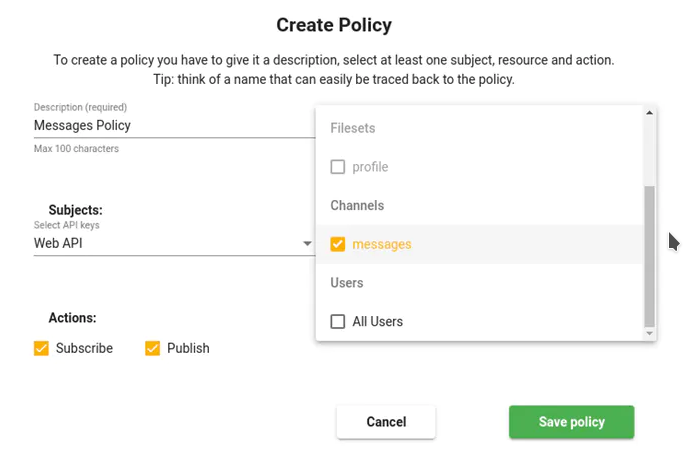
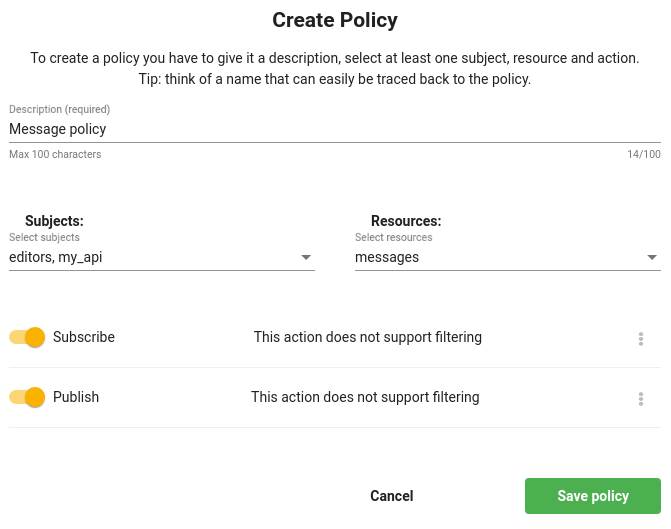
DataSet strict mode, UMS Namespaces, Policy Filters, Delete project

diff --git a/docs/auth/README.md b/docs/auth/README.md
@@ -30,9 +30,7 @@ Using the automatically generated API, we can now interact with our data.
 
 ``` js
 // Jexia client
-import { jexiaClient } from "jexia-sdk-js/node";
-// Dataset operation
-import { dataOperations } from "jexia-sdk-js/node";
+import { jexiaClient, dataOperations } from "jexia-sdk-js/node";
 
 const ds = dataOperations();
 
@@ -81,16 +79,20 @@ curl -H "Authorization: Bearer $API_TOKEN"
 </template>
 </CodeSwitcher>
 
+::: warning
+Keep in mind at this point in time only JS SDK is automatically refresh access token. If you use REST API or Python SDK you need to handle this situation by your own. Token live time 2h 
+:::
+
 ## Project Users
-Another way to authenticate within Jexia is to use **Project Users**. Usually, you need this when you want to provide more rights to specific users. Let's say **Update** and **Delete** actions for your blog. Firstly, you need to create a user under the **Project Users** section.
+Another way to authenticate within Jexia is to use **Project Users**. Usually, you need this when you want to provide more rights to specific users. Let's say **Update** and **Delete** actions for your blog can be done by owners only. Firstly, you need to create a user under the **Project Users** section.
 
 ![UMS Users](./ums-2.png)
 
-After this, you need go to the **Policies** section and create a new policy, ensuring that **Subject** is selected as **AllUsers** and the selected Datasets within **Resource** are what you want these users to be able to access. Finally, sselect all **Actions** you want these users to perform.
+After this, you need go to the **Policies** section and create a new policy, ensuring that **Subject** is selected for some specific **Namespace** or **User account** and **Resource** are selected to specific dataset, fileset or AllUsers(for user table) what you want these users be able to run actions. Finally, select all **Actions** you wanted these users to perform.
 
 ![Policy](./policy.png)
 
-This will allow any registered user to have full CRUD access to the example `orders` dataset. 
+This will allow any user from namespace `registered` or user with email `admin@x.com` to have Update & Delete operations for all own records and Read operation for all records which has schema field `confirmed` equal to `true`
 
 <CodeSwitcher :languages="{js:'JavaScript',bash:'cURL'}">
 <template v-slot:js>
@@ -135,18 +137,35 @@ curl -H "Authorization: Bearer $UMS_TOKEN"
 </template>
 </CodeSwitcher>
 
+::: warning
+Keep in mind at this point in time only JS SDK is automatically refresh access token. If you use REST API or Python SDK you need to handle this situation by your own. Token live time 2h 
+:::
+
 ## Policies
-As was mentioned above to authorize access to your data you need to have a **policy** created for your API keys and Project Users. 
+As was mentioned above to authorize access to your data you need to have a **policy** created for your API keys and/or Project Users. 
 Currently, you cannot manipulate a **policy** via the API. All admin actions are only available via Jexia's administration dashboard.
 
 <iframe width="700" height="394" src="https://www.youtube.com/embed/i4dKznoXry0" frameborder="0" allow="accelerometer; autoplay; encrypted-media; gyroscope; picture-in-picture" allowfullscreen></iframe>
 
-There are three main areas within a **Policy**:
-1. **Subject** (who has access) - can be an **API key**, **All Users** (all project users) or a **namespace** (grouped users under the same name).
-2. **Resources** (access to what) - can be any dataset, fileset or channel. Selecting **All Users** means you allow these operations to be performed by all Project Users. 
-3. **Actions** (what CRUD actions can be performed) - here you can specify which actions are allowed to be performed. These can be: Create, Read, Update and Delete. For Channels you have specific actions: Subscribe (read) and Publish (write).
+_* video shows previous version of policy screen_
+
+There are four main areas within a **Policy**:
+1. **Subject** (who has access) - can be an **API key**, **Namespace** (grouped users under the same name), **User account**.
+2. **Resources** (access to what) - can be any dataset, fileset or channel. Selecting **All Users** means you allow  operations for all Project Users. 
+3. **Actions** (what CRUD actions can be performed) - here you can specify which actions are allowed to be performed. These can be: Create, Read, Update and Delete. For Channels you have specific actions: Subscribe (read) and Publish (write). 
+4. **Filters** - for actions you can use additional filtering options to specify access of current namespace, api or user. It is useful when you want to segrigate data access for different instances of your business(offices, e-shops, etc).
+We have predefined filter - Owner which says to the platform to filter out only records where user is an owner. It can combine with additional filters to specify even more. All filters joind with **AND** logical operator. Changes for policy applies immediately.
 
 ![Policy](./policy.png)
+
+If namespace or particular user is part of multiple policies, access will be joined via **OR** operations. 
+
+For example:
+1. User A -> Policy 1 -> Has CRUD for Orders dataset
+1. User A -> Policy 2 -> Has R + filter (total>100) for Orders dataset
+
+Result: User A will have full access to Orders dataset as Policy 2 is subset of Police 1
+
 
 ::: tip
 You can create as many policies as you need. All of them will be evaluated during the request. Changes in a policy have an immediate effect. 

diff --git a/docs/get-started/README.md b/docs/get-started/README.md
@@ -79,12 +79,12 @@ To have API key access, you firstly need to create an API key. For this, you nee
 
 After go to the **Policies** section to specify which resources and actions should be made available for this API key. Once you have clicked **Create policy**, the **Subject** should be the newly created API key, in **Resources** select the required Datasets, Filesets or Channels. It is also important to select all allowed actions. These are: Create, Read, Update and Delete.
 
-![Policy setup](./policy.png)
+![Policy setup](./api-policy.png)
 
 ### Access via Project User
 Go to the **Project Users** section and create a new user with an email and password. After this, go to the **Policies** area and click **Create policy**. As the **Subject** you should select **All Users**. When selecting the **Resources** needed, select the required Datasets, Filesets or Channels as well as actions. Once this has been done, all registered and activated users will have access to the resources selected.
 
-![AllUsers policy](./allusers.png)
+![AllUsers policy](./policy.png)
 
 ## Interacting with data
 Now let's make simple CRUD to access our Dataset. For this, you can use the REST API or one of our SDKs. Our [JS SDK](https://www.npmjs.com/package/jexia-sdk-js) is built on top of the RxJS library, so you can use all the power of this library. Other SDKs can be found on our [GitHub](https://github.com/jexia).
@@ -98,7 +98,7 @@ npm install jexia-sdk-js node-fetch ws --save
 
 Below you can see an example with all the modules imported into the project. These are optional. If you do not need to access Filesets, Project Users (UMSModule) or real-time events, feel free to skip importing them.  
 
-<CodeSwitcher :languages="{js:'JavaScript', bash:'cURL'}">
+<CodeSwitcher :languages="{js:'Node', html:'Browser', bash:'cURL'}">
 <template v-slot:js>
 
 ``` js
@@ -144,6 +144,50 @@ selectQuery.subscribe(records => {
 });
 ```
 </template>
+<template v-slot:html>
+
+``` html
+<html>
+<head>
+     <script src="https://unpkg.com/jexia-sdk-js/bundle/browser.umd.min.js"></script>
+</head>
+<body>
+<i>loading...</i>
+<ul></ul>
+<script type="text/javascript">
+  window.onload = function() {
+    if (!jexia) {
+      throw new Error("Please check inform support team of Jexia.");
+    }
+    //Initialize dataOperationsModule
+    const dataModule = jexia.dataOperations();
+    const credentials = {
+      projectID: "<your-project-id>",
+      key: "<your-project-api-key>",
+      secret: "<your-project-api-secret>",
+    };
+    jexia.jexiaClient().init(credentials, dataModule);
+    const postsList = document.querySelector("ul");
+    dataModule.dataset("posts")
+      .select()
+      .execute()
+      .then((posts) => {
+        posts.forEach((post) => {
+          const postTitle = document.createElement("li");
+          postTitle.innerText(post.title);
+          postsList.appendChild(postTitle);
+        });
+      })
+      .catch((error) => {
+        console.log(error);
+      });
+  }
+</script>
+</body>
+</html>
+```
+
+</template>
 <template v-slot:bash>
 
 ``` bash
@@ -181,13 +225,14 @@ curl -H "Authorization: Bearer $UMS_TOKEN"
 
 ## Delete project
 
-To delete your project you need to first remove the application from within the **Application Hosting** section. Then go to **Settings** and click **Delete**, you would need to provide your password to ensure it's you.
-
+To delete your project you need to first remove the application from within the **Application Hosting** section. Then go to **Settings** and click **Delete**, with this email with one time token will be sent to your email. Please use this token to confirm project deletion. 
+![Delete project](./delete_prj.png)
+![Confirm project deletion](./delete_prj_otp.png)
 ::: danger
 Please, be aware. All data will be deleted and we will not be able to restore it. Please, use these function carefully.
 :::
 
-![Delete project](./delete_prj.png)
+
 
 ## Collaboration 
 With collaboration, you can share work with members of your team. You can invite them to help with setting up, helping with a deployment and other administration work. This can speed up the development process and decrease the overall delivery time. Currently, you can only invite users with a Jexia account.   

diff --git a/docs/dataset/README.md b/docs/dataset/README.md
@@ -11,6 +11,8 @@ The name of the dataset is used as an endpoint ( For example: `*.app.jexia.com/d
 - The name of your dataset can contain only Latin characters and digits.
 - The name of the dataset has to start with a character.
 
+**Strict mode** - inform platform to apply strict rule about input data validation. If input object will have some fields which does not exist in  dataset schema insert / update operation will be rejected.   
+
 ## Configuration
 
 ## Schema
